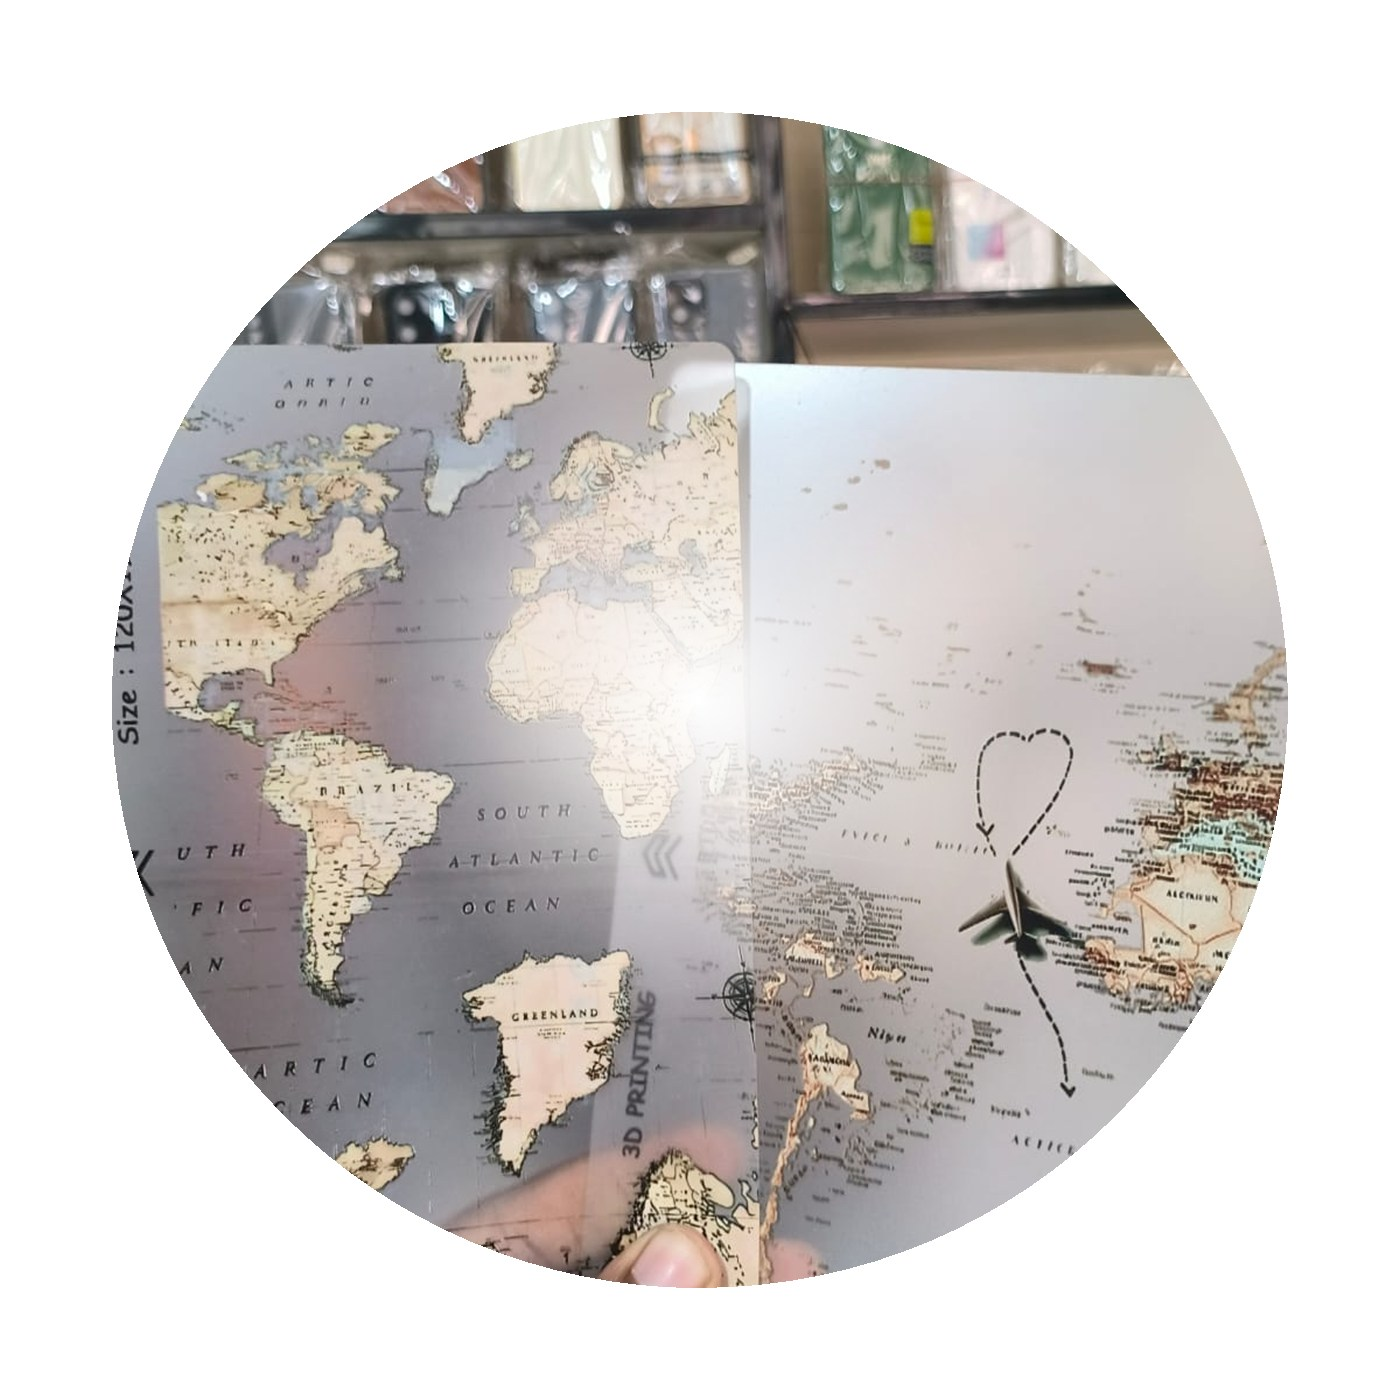
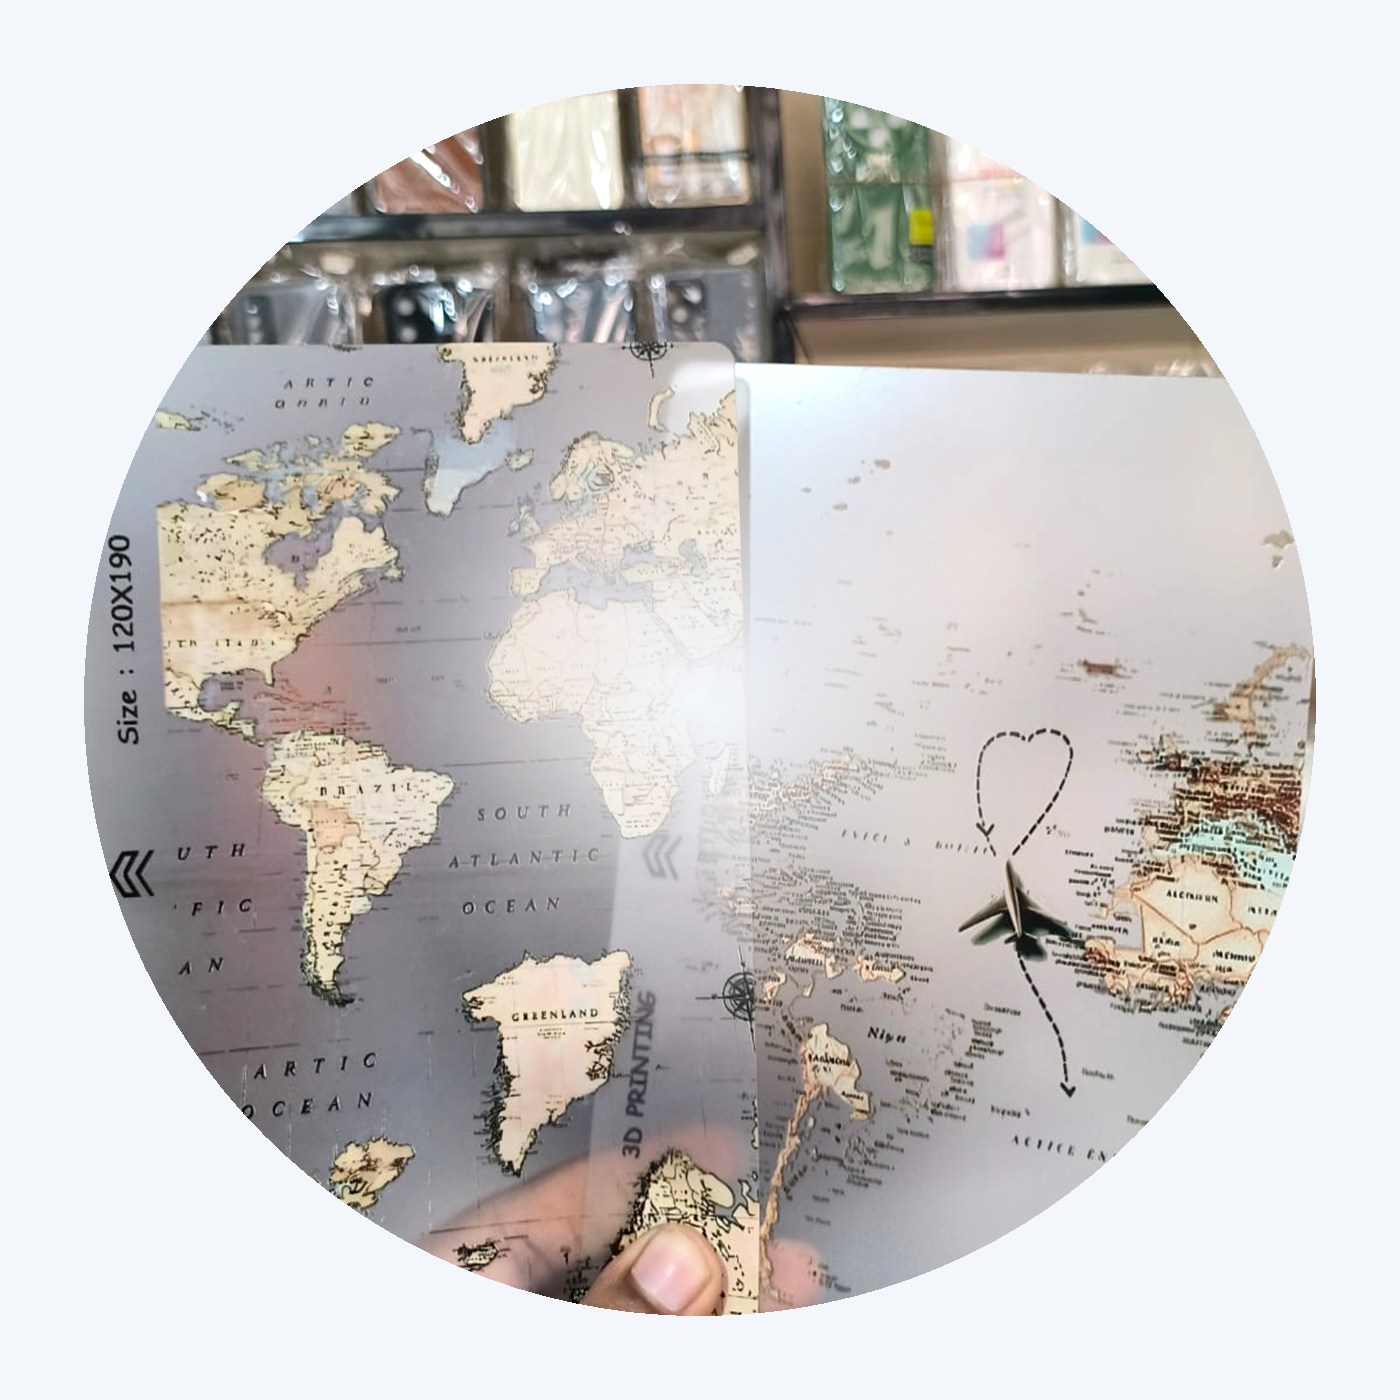
Add 6 more real product photos, upgrade image treatment to ad-style
New products (owner-confirmed, real photos supplied):
- U39 True Wireless Headset — Rs 2,250
- Airbuds Pro — Rs 3,850 (unbranded box, owner-named)

Photos added for existing products:
- Power Bank, Magnet Buzzer White, Magnet Buzzer Black,
  Airbuds Pro 2 White — no longer "coming soon"

Airbuds Pro 2 Black, Pro 3, and Pro 5 stay as honest placeholders:
searched Daraz for "Airbuds Pro 3/5" and found thousands of unrelated
products sharing the generic name across different brands, confirming
there's no single real item to source an accurate photo of.

Image processing upgrade (all product photos reprocessed):
- Replaced the flat white vignette with a soft brand-tinted studio
  backdrop, a grounding contact shadow, and a mild contrast/clarity
  boost for a more polished, commercial-photography feel — still no
  pixels of the product itself altered, this is crop + backdrop +
  shadow + a global tone curve.

Caught and fixed a mislabeling bug from this batch: the U39 photo was
initially wired to a duplicate Magnet Buzzer White shot after a mix-up
reviewing 7 images at once. Found by checking the live rendered page
against the source photo rather than assuming the mapping was right,
then corrected raw + studio files and re-verified every new product
page in the browser before committing.

Changed region(s): [[0.0614, 0.0614, 0.9521, 0.9521], [0.4914, 0.7986, 0.5529, 0.8293]]

diff --git a/src/data/products.ts b/src/data/products.ts
@@ -141,9 +141,24 @@ export const PRODUCTS: Product[] = [
     oldPrice: 4800,
     description:
       '10,000mAh power bank with 3 built-in cables — Android, Type-C, and iPhone — so you can charge on the go without carrying separate cables.',
-    images: [],
-    comingSoon: true,
+    images: ['/assets/products/studio/power-bank/power-bank-box.jpg'],
     featured: true,
+  },
+  {
+    id: 'u39-headset',
+    name: 'U39 True Wireless Headset',
+    categoryId: 'airbuds-audio',
+    price: 2250,
+    description: 'True wireless earbuds with a magnetic charging case, quick pairing, and touch controls.',
+    images: ['/assets/products/studio/u39-headset/u39-headset.jpg'],
+  },
+  {
+    id: 'airbuds-pro',
+    name: 'Airbuds Pro',
+    categoryId: 'airbuds-audio',
+    price: 3850,
+    description: 'True wireless earbuds for calls and everyday listening.',
+    images: ['/assets/products/studio/airbuds-pro/airbuds-pro.jpg'],
   },
   {
     id: 'airbuds-pro-2-white',
@@ -152,8 +167,7 @@ export const PRODUCTS: Product[] = [
     categoryId: 'airbuds-audio',
     price: 1850,
     description: 'True wireless earbuds for calls and everyday listening.',
-    images: [],
-    comingSoon: true,
+    images: ['/assets/products/studio/airbuds-pro-2-white/airbuds-pro-2-white.jpg'],
   },
   {
     id: 'airbuds-pro-2-black',
@@ -172,8 +186,7 @@ export const PRODUCTS: Product[] = [
     categoryId: 'mobile-accessories',
     price: 2850,
     description: 'A magnetic mobile accessory, supplied with a matching black pouch.',
-    images: [],
-    comingSoon: true,
+    images: ['/assets/products/studio/magnet-buzzer-white/magnet-buzzer-white.jpg'],
   },
   {
     id: 'magnet-buzzer-black',
@@ -182,8 +195,7 @@ export const PRODUCTS: Product[] = [
     categoryId: 'mobile-accessories',
     price: 3850,
     description: 'A magnetic mobile accessory, supplied with a matching black pouch.',
-    images: [],
-    comingSoon: true,
+    images: ['/assets/products/studio/magnet-buzzer-black/magnet-buzzer-black.jpg'],
   },
   {
     id: 'airbuds-pro-3',

diff --git a/TODO.md b/TODO.md
@@ -3,18 +3,19 @@
 ## Before launch — real info still needed
 - [ ] Store address / Google Maps link (owner has not provided one this round — `CONTACT` fields left blank, no Contact/location map section on the site until supplied)
 - [ ] Social media profile URLs (Instagram/Facebook/TikTok — footer icons currently point to `#`)
-- [ ] Real product photos for: Back Pouch, Power Bank, Airbuds Pro 2 (White & Black), Magnet Buzzer (both variants), Airbuds Pro 3, Airbuds Pro 5 — these currently show an honest "Photo coming soon" placeholder in `src/data/products.ts`. Stock photos were deliberately **not** sourced for these — see "Image sourcing" below.
+- [ ] Real product photos still needed for: Back Pouch, Airbuds Pro 2 Black, Airbuds Pro 3, Airbuds Pro 5 — these show an honest "Photo coming soon" placeholder in `src/data/products.ts`. Stock photos were deliberately **not** sourced for these — searched Daraz for "Airbuds Pro 3/5" and found thousands of unrelated products under the same generic name, confirming there's no single real item to match.
 - [ ] Confirm the picked back-sheet design used in the 3D showcase texture (`design-2-map-color.jpg`) is one the owner wants front-and-center, or swap for another from `/public/assets/products/raw/back-sheet/`
 
-## Image processing (2026-09-13)
+## Image processing (2026-09-13, refined 2026-09-14)
 
 - Raw owner-supplied photos moved to `/public/assets/products/raw/<slug>/` (kept, untouched, as the source of truth).
-- The site now displays a processed version from `/public/assets/products/studio/<slug>/`: center-cropped to a consistent square and given a soft radial vignette that fades busy backgrounds (shop shelving, plastic wrap) toward white — done with a local .NET/PowerShell script (`Add-Type -AssemblyName System.Drawing`), not an AI image tool. **No pixels of the product itself are altered** — this is crop + a white fade overlay, not background removal or relighting.
-- **Honest limitation:** this is not full studio photography. Several photos still show a hand holding the product (inherent to how they were shot) — a vignette can't remove that without fabricating what's underneath, which would misrepresent the product. True background removal would need either a working browser extension (Claude in Chrome wasn't connected this session) or the owner having the products re-shot flat/isolated.
+- The site displays a processed version from `/public/assets/products/studio/<slug>/`: center-cropped to a consistent square, composited onto a soft brand-tinted studio backdrop (not flat white), given a soft grounding shadow, and a mild contrast/clarity boost — done with a local .NET/PowerShell script (`Add-Type -AssemblyName System.Drawing`), not an AI image tool. **No pixels of the product itself are altered** — this is crop + backdrop + shadow + global tone curve, not background removal or relighting.
+- **Honest limitation:** this is not full studio photography. Several photos still show a hand holding the product (inherent to how they were shot) — this treatment can't remove that without fabricating what's underneath, which would misrepresent the product. True background removal would need either a working browser extension (Claude in Chrome wasn't connected this session) or the owner having the products re-shot flat/isolated.
+- **QA note:** while wiring up this batch, one photo (U39 headset) was initially mismatched with a duplicate Magnet Buzzer White photo due to a mislabeling error while reviewing 7 images at once — caught by cross-checking the live rendered page against the source photo, not assumed correct. Worth a full visual pass (`/shop`, every product) after any future bulk photo import, since a wrong-but-plausible-looking product photo is exactly the kind of error that's easy to miss.
 
-## Image sourcing (2026-09-13)
+## Image sourcing (2026-09-13/14)
 
-For the 7 products with no owner photo, no stock image was sourced online. Reasoning: these are generic reseller names (Airbuds Pro 2/3/5, Magnet Buzzer, Power Bank) with no stated brand/model — there is no way to confirm any web image is the *exact* item this store sells rather than a similar-looking unit from a different factory, so per the standing "no random similar product" rule they default to the "Photo coming soon" placeholder instead.
+For products with no owner photo, no stock image is used unless the owner explicitly confirms one (e.g. Power Bank, Magnet Buzzer White/Black, U39, and "Airbuds Pro" were all owner-supplied on 2026-09-13). For the remaining Airbuds Pro 2 Black / Pro 3 / Pro 5, these are generic reseller names with no stated brand/model — a Daraz search for "Airbuds Pro 5" alone returned 2,710 different products from different brands under that name, so there's no way to confirm any single web image is the *exact* item this store sells. Per the standing "no random similar product" rule, they stay as the "Photo coming soon" placeholder.
 
 ## Rebrand completed this session (2026-09-12)
 - [x] Removed the black/graphite/gold identity entirely — new white/blue/lime/navy system
